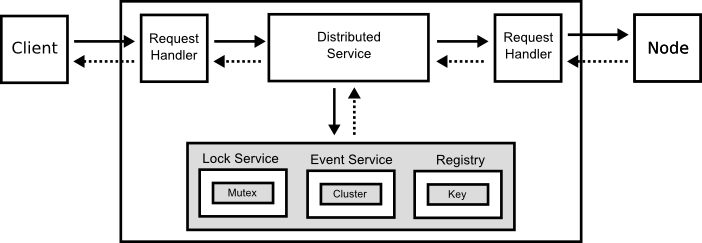
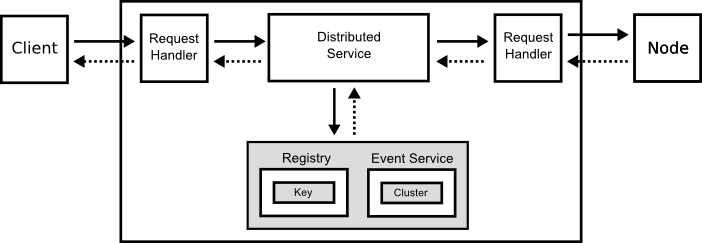
* Updated documents.

Changed region(s): [[0.2393, 0.5761, 0.7479, 0.9794]]

diff --git a/doc/round_conversions.md b/doc/round_conversions.md
@@ -18,7 +18,11 @@ The existing distributed consensus service such as [Chubby \[1\]][1], [ZooKeeper
 
 ### Functions
 
-#### Lock Service
+Consensus service provides only two simple services, registry and event. Developer have to handle other functions such as request handlers with client and other nodes.
+
+#### Structured Registry
+
+Consensus service provides a structured registry which developer can access atomicity. The registry has a sequential number to access atomicity, then developer can use the registry as as mutex to handle critical section.
 
 #### Event
 
@@ -31,37 +35,26 @@ The event service sends only the following notifications when other node status 
 
 The events are limited and static. In contrast, Round supports more useful events, developer can add user events easily.
 
-#### Registry
-
 ### Round Functions
+
+In constract, Round supports all basic functions to develop distributed application, then eveloper only have to write application scripts.
 
 ![Chubby Programming Model](img/round_distributed_programming.png)
 
-## Existing Genaral Distributed Framework
+## Existing General Distributed Framework
 
-In the existing distributed framework such as [MapReduce \[2\]][2] and [Storm \[4\]][4] ....
+In the existing distributed framework such as [MapReduce \[2\]][2] and [Storm \[4\]][4] assumes some a specific execution model to develop distributed application easily.
 
-[MapReduce \[2\]][2] ....
-[Storm \[4\]][4] ....
-
-## Existing Distributed Service Framework
-
-
-## Network Topology
-
-Programming model of existing consensus services, like [Chubby \[1\]][1] and [Zookeeper \[4\]][4], are typical client server model.
-
-![Chubby Network Topology](img/chubby_network_topology.png)
-
-[MapReduce \[2\]][2] ...
+[MapReduce \[2\]][2] assumes .... the programming code is static.
 
 ![MapReduce Network Topology](img/mr_network_topology.png)
 
-Round ...
+[Storm \[4\]][4] ....
 
-![Round Network Topology](img/round_network_topology.png)
+## Existing Service Framework Framework
 
-Asymmetric network topology is not always efficient ...
+..... the function is static, and it is difficult to change the algorithm.
+
 
 # Conversion
 
